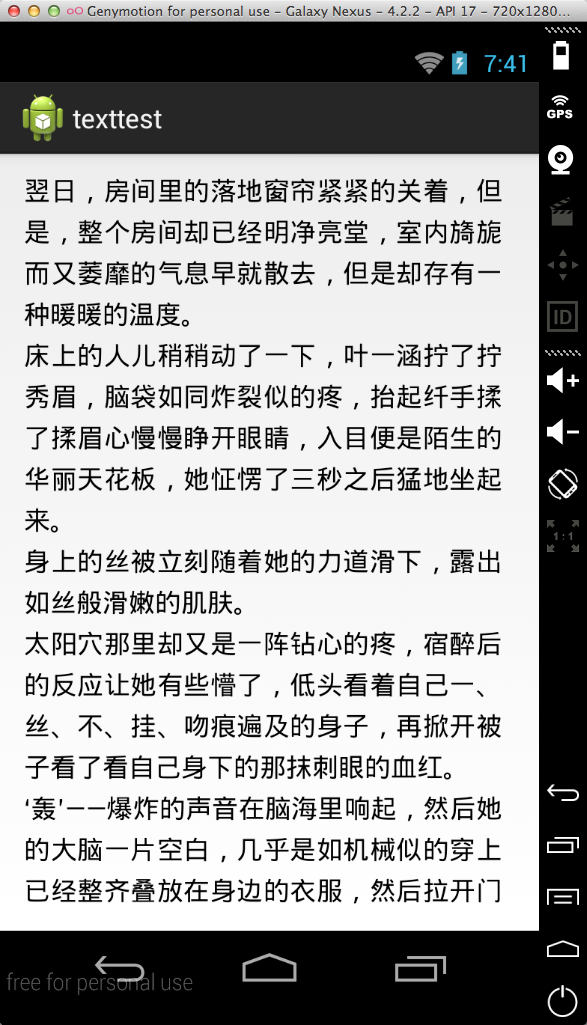
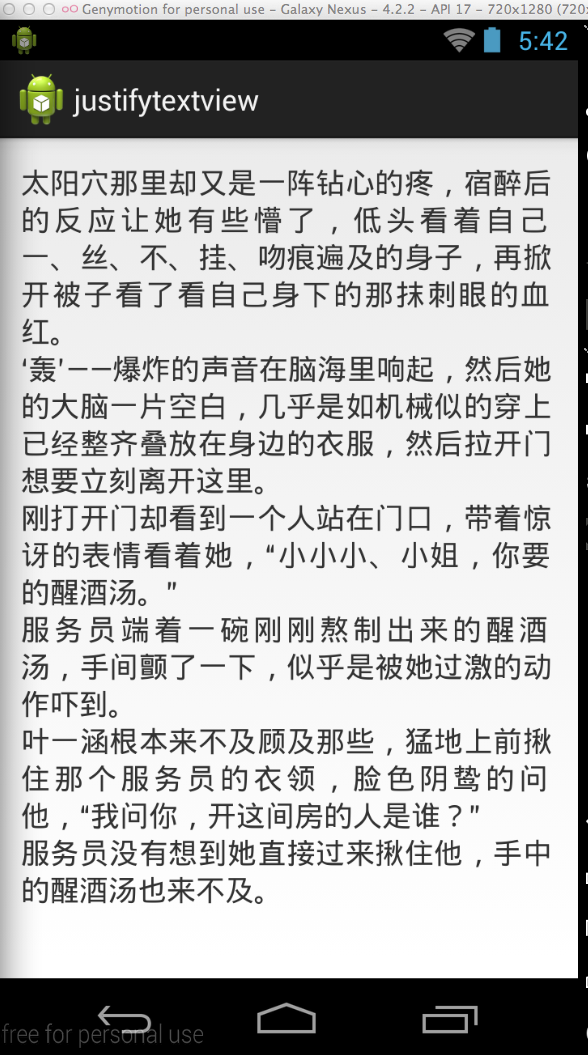
up

diff --git a/sample/src/main/java/me/biubiubiu/justifytext/MainActivity.java b/sample/src/main/java/me/biubiubiu/justifytext/MainActivity.java
@@ -16,37 +16,29 @@
 
 package me.biubiubiu.justifytext;
 
-import android.annotation.SuppressLint;
 import android.app.Activity;
-import android.graphics.Color;
 import android.os.Bundle;
 
 import java.io.BufferedReader;
 import java.io.IOException;
 import java.io.InputStreamReader;
 
-import butterknife.ButterKnife;
-import butterknife.InjectView;
 import me.biubiubiu.justifytext.library.JustifyTextView;
 
 public class MainActivity extends Activity {
 
-    private static final String TAG = "CharsPerLineActivity";
+    private JustifyTextView mText;
 
-    @InjectView(R.id.text)
-    JustifyTextView mText;
-
-    @SuppressLint("ResourceAsColor")
     protected void onCreate(Bundle savedInstanceState) {
         super.onCreate(savedInstanceState);
         setContentView(R.layout.another_activity_main);
 
-        ButterKnife.inject(this);
-        mText.setTextColor(0xffff0000);
-
+        mText = (JustifyTextView) findViewById(R.id.text);
         String text = "";
+
+        BufferedReader br = null;
         try {
-            BufferedReader br = new BufferedReader(new InputStreamReader(getAssets().open("1.txt")));
+            br = new BufferedReader(new InputStreamReader(getAssets().open("1.txt")));
             String line;
             StringBuffer sb = new StringBuffer();
             while ((line = br.readLine()) != null) {
@@ -55,10 +47,15 @@ public class MainActivity extends Activity {
             text = sb.toString();
         } catch (IOException e) {
             e.printStackTrace();
+        } finally {
+            try {
+                br.close();
+            } catch (IOException e) {
+                e.printStackTrace();
+            }
         }
 
         mText.setText(text);
-        mText.setLineSpacing(20, 1);
     }
 
 }

diff --git a/README.md b/README.md
@@ -7,6 +7,16 @@
 
 用android原生的widget实现两端对齐,让你的textview不在坑坑洼洼。
 
+#使用方法
+
+```xml
+    <me.biubiubiu.justifytext.library.JustifyTextView
+        android:id="@+id/text"
+        android:layout_width="match_parent"
+        android:layout_height="wrap_content"
+        />
+```
+
 #demo
 
 <a href="https://play.google.com/store/apps/details?id=me.biubiubiu.justifytext">
